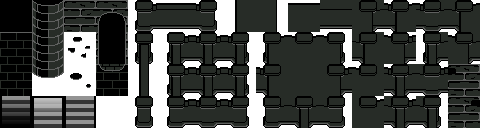
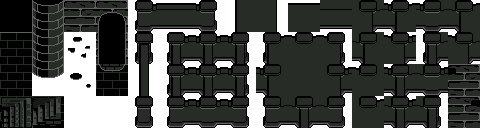
Updated stair tile assets and added event for window

Changed region(s): [[0.0, 0.75, 0.2188, 1.0]]

diff --git a/src/scenes/Play.js b/src/scenes/Play.js
@@ -36,6 +36,7 @@ class Play extends Phaser.Scene {
 
         this.p1Spawn = map.findObject('Objs', obj => obj.name === 'p1Spawn');
         this.p1Exit = map.findObject('Objs', obj => obj.name === 'p1Exit');
+        this.p1Window = map.findObject('Objs', obj => obj.name === 'p1Window')
         this.r1Spawn = map.findObject('Objs', obj => obj.name === 'r1Spawn');
         this.r1Exit = map.findObject('Objs', obj => obj.name === 'r1Exit');
         this.r2Spawn = map.findObject('Objs', obj => obj.name === 'r2Spawn');
@@ -192,7 +193,10 @@ class Play extends Phaser.Scene {
                 this.roomScroll(this.cameras.main, this.roomNumber - 1);
                 this.player.x = this.exits[this.roomNumber].x-16;
                 this.player.y = this.exits[this.roomNumber].y-16;
-                }
+            }
+            else if (Phaser.Input.Keyboard.JustDown(keySPACE) && this.player.isCollidedWith(this.p1Window)){
+                console.log("What a beautiful day outside...")
+            }
         }
     }
 }
